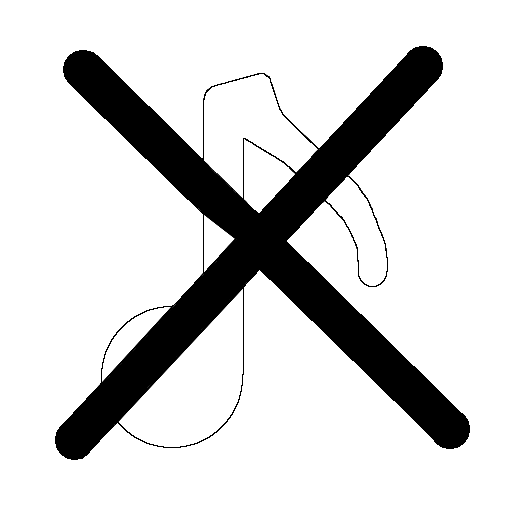
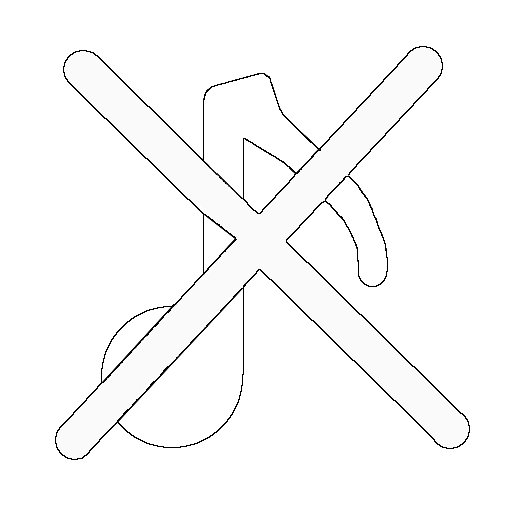
modified musicOffIcon, fix checkEndGame

Changed region(s): [[0.0938, 0.0938, 0.9375, 0.9062]]

diff --git a/Assets/Scripts/PlayerControl.cs b/Assets/Scripts/PlayerControl.cs
@@ -22,10 +22,12 @@ public class PlayerControl : MonoBehaviour
     private bool isBouncedOutZeroArea; // if ball bounces off zeropointarea, game doesn't put second ball to game when this ball enters zeropointarea again
     private int i;              // to keep track of the active ball in the list
     private readonly float forceLimit = 3f; // if force is higher than limit, it is set to the limit set here
-    private Rigidbody rb;
+    private List<Rigidbody> rb = new List<Rigidbody>();
     public static bool endGame;
+    private List<bool> isStopped = new List<bool>();
 
-    public delegate void OnTutorialSwitchChanged(bool a);
+    // Check if tutorial is needed
+    public delegate void OnTutorialSwitchChanged(bool sw);
     public static event OnTutorialSwitchChanged onTutorialSwitchChanged;
 
     //Assigned at start
@@ -33,7 +35,6 @@ public class PlayerControl : MonoBehaviour
     {
         i = 0;
         SphereStartPos = balls[i].transform.position;
-        StartCoroutine(SwitchBall());
         powerbar.value = 0;
         powerbar.maxValue = forceLimit;
         endGame = false;
@@ -42,6 +43,12 @@ public class PlayerControl : MonoBehaviour
         isActive = true;
         outOfBounds = false;
         isBouncedOutZeroArea = false;
+        for(int j = 0; j < balls.Count; j++)
+        {
+            rb.Add(balls[j].GetComponent<Rigidbody>());
+            isStopped.Add(false);
+        }
+        SwitchBall();
     }
     // Update game every frame to check inputs and outcomes
     void Update()
@@ -85,23 +92,24 @@ public class PlayerControl : MonoBehaviour
             powerbarImage.color = Color.Lerp(Color.green, Color.red, powerbar.value / forceLimit);
         }
         // Add points to the counter on screen and set up next ball
-        if ((atZeroPointArea || !isInStartArea && rb.velocity == Vector3.zero && rb.angularVelocity == Vector3.zero))
+        if (atZeroPointArea || !isInStartArea && rb[i-1].velocity == Vector3.zero && rb[i-1].angularVelocity == Vector3.zero)
         {
             ScoreManager.SetText();
             isInStartArea = true;
             atZeroPointArea = false;
-            StartCoroutine(SwitchBall());
+            CheckEndGame();
+            SwitchBall();
         }
         // Check if ball is out of bounds and set up next ball
         if (outOfBounds)
         {
-            Destroy(rb);
+            Destroy(rb[i-1]);
             balls[i-1].SetActive(false);
             outOfBounds = false;
             isInStartArea = true;
             atZeroPointArea = false;
             Debug.Log("Ball is out of Bounds");
-            StartCoroutine(SwitchBall());
+            SwitchBall();
         }
     }
     // Add force to launch the ball
@@ -117,61 +125,44 @@ public class PlayerControl : MonoBehaviour
             force = forceLimit;
         }
 
-        rb.AddForce(0,0,force*factor);
+        rb[i-1].AddForce(0,0,force*factor);
         touchTimeStart = 0;
         touchTimeFinish = 0;
     }
     // Switch ball or start ending the game
-    private IEnumerator SwitchBall()
+    private void SwitchBall()
     {   
         atZeroPointArea = false;
-        if (i < balls.Count)
+        if (i < rb.Count)
         {
-            rb = balls[i].GetComponent<Rigidbody>();
-            rb.transform.position = SphereStartPos;
+            rb[i].transform.position = SphereStartPos;
             isActive = true;
-            i++;
-        } 
-        else 
-        {
-            CheckEndGame();
-            i--;
         }
-        yield return null;
+        i++;
     }
-    // TODO not working, might also give error
-    // Check if game is ready to end (every ball is stopped so all the points are counted)
+
+    // Check that every ball is stopped so all the points are counted
     private void CheckEndGame()
     {
-        while(!endGame)
+        foreach(Rigidbody _rb in rb)
         {
-            List<bool> boolCount = new List<bool>();
-            bool stopped;
-            for(int j = 0; j < balls.Count; j++)
+            if(_rb.velocity == Vector3.zero && _rb.angularVelocity == Vector3.zero)
             {
-                Rigidbody rb_ = balls[j].GetComponent<Rigidbody>();
-                if ((rb_.velocity == Vector3.zero) || (rb_.angularVelocity == Vector3.zero))
-                {
-                    stopped = true;
-                    boolCount.Add(stopped);
-                }
-                else
-                {
-                    stopped = false;
-                    boolCount.Add(stopped);
-                }
+                isStopped[i-1] = true;
             }
-            foreach (bool b in boolCount)
+            else
             {
-                if(!b)
-                {
-                    endGame = false;
-                    break;
-                }
+                isStopped[i-1] = false;
             }
-            endGame = true;
         }
+        for(int m = 0; m < isStopped.Count; m++)
+        {
+            if(!isStopped[m])
+            return;
+        }
+        endGame = true;
     }
+
     // Check if ball enters to these triggers
     private void OnTriggerEnter(Collider other)
     {
